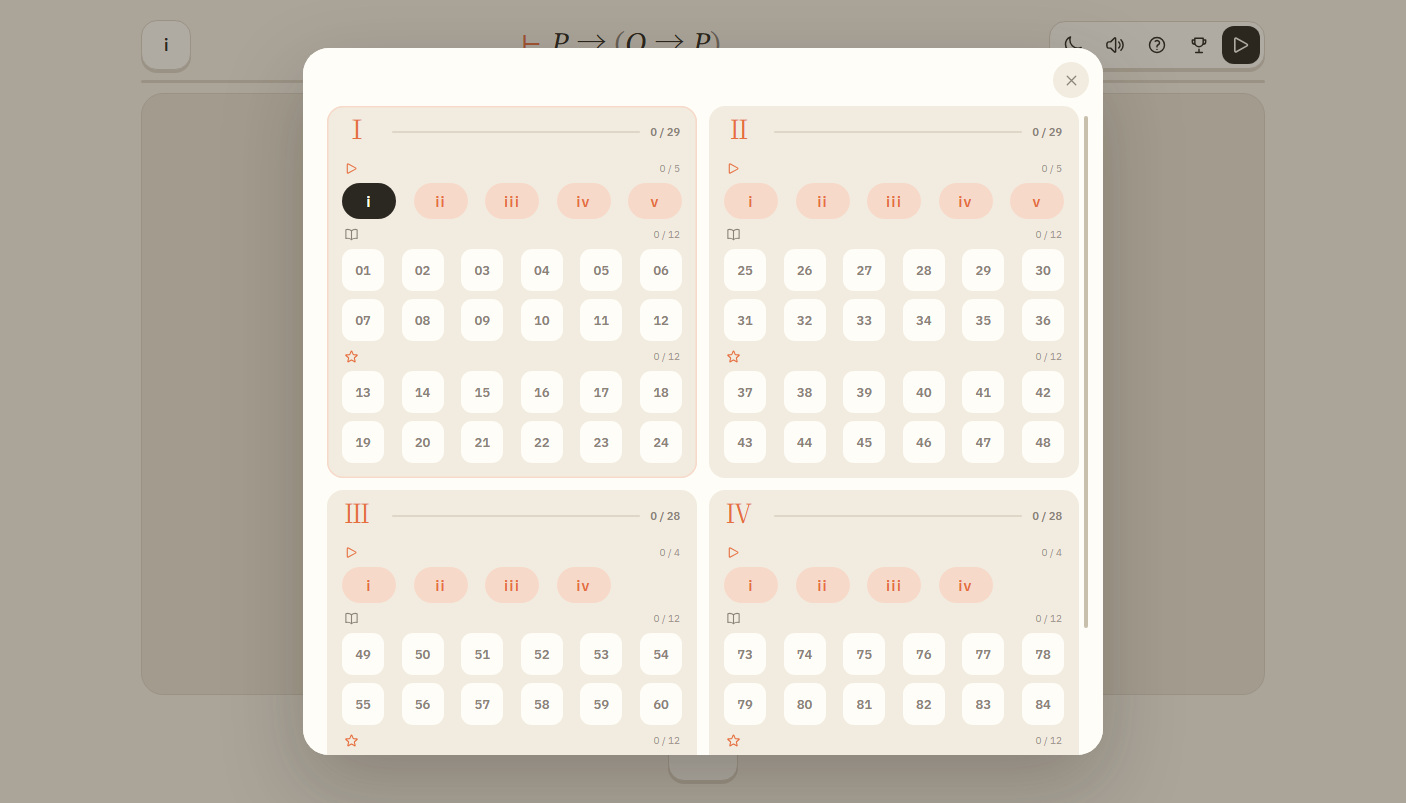
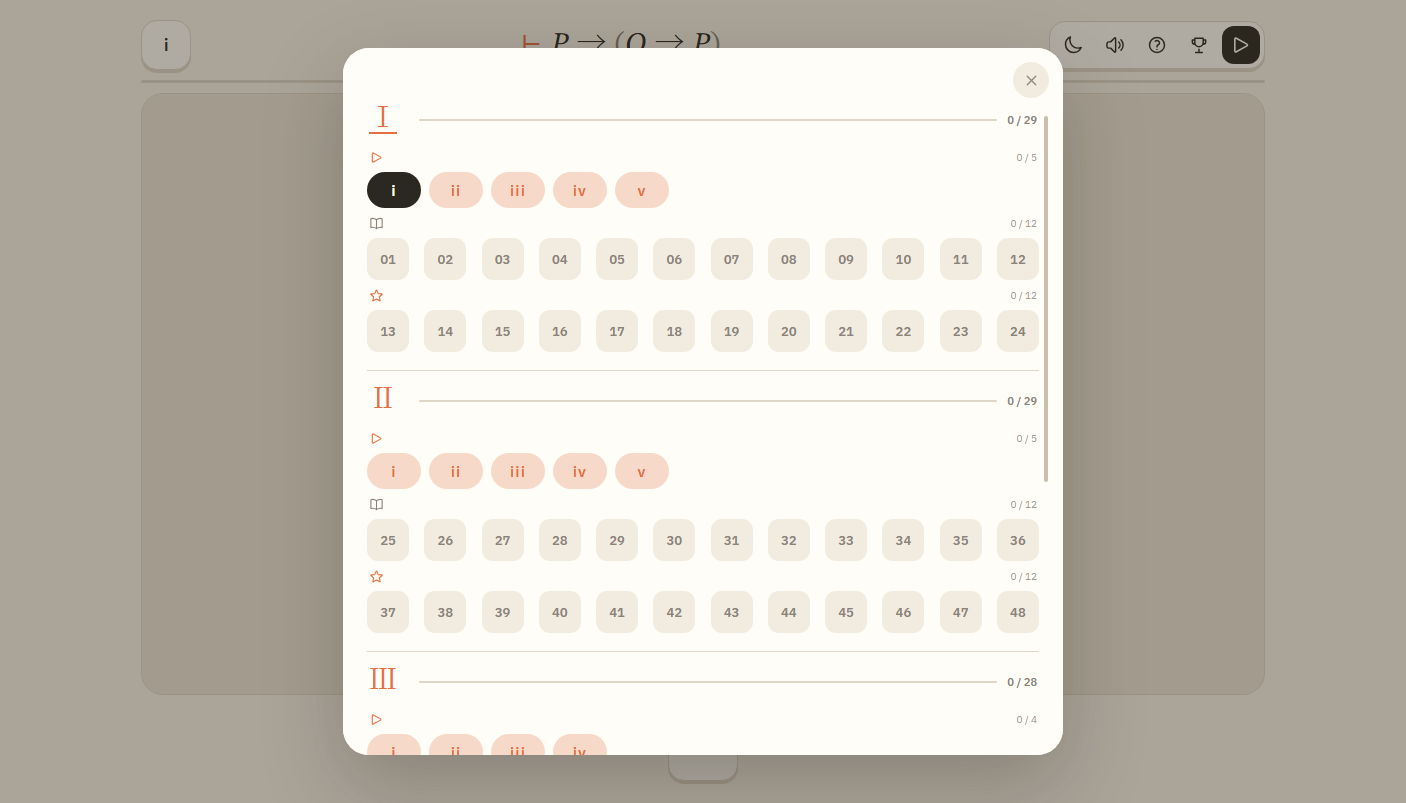
Smooth residual wire jogs; flatten level select to 4x1
Routing:
- add Route.mergeShort: interior segments under 14px are collapsed into a
  clean L corner when clear; run it (with despike) on lane routes and on the
  Board close-port Z/U paths. This removes the small notches left at ports
  and between near lanes.
- player-like circuits now render with straight runs and single corners.

Level select:
- revert to four stacked chapters on the plain sheet; remove the extra soft
  chapter background and borders, leaving only headers, a progress line and a
  separator between chapters.
- keep 12-column 普通/进阶 rows and the accent tutorial pills; refresh
  screenshots and DESIGN notes.
- 114 levels, npm test 5/5, route 11/11, game-ui 30/30, acceptance green;
  .maintenance stays.

diff --git a/src/simple.css b/src/simple.css
@@ -656,21 +656,19 @@ body.is-holding *{cursor:grabbing!important}
  * 16 选关面板 levels
  * ========================================================================= */
 
-.sheet.sheet-levels{width:min(800px,100%)}
+.sheet.sheet-levels{width:min(720px,100%)}
 
-.chapters{display:grid;grid-template-columns:repeat(2,minmax(0,1fr));gap:12px;align-items:start;padding-top:2px}
+.chapters{display:flex;flex-direction:column;gap:18px;padding-top:2px}
 
-/* 章节是 sheet 内的一块平涂软卡，和帮助/成就面板用同一套材质。 */
-.chapter{
-  background:var(--soft);border-radius:var(--radius);
-  padding:13px 15px 15px;
-}
+/* 章节直接排在 sheet 上：只有分隔线和标题，不再套第二层底色。 */
+.chapter{padding:0}
+.chapter + .chapter{border-top:1px solid var(--line);padding-top:16px}
 .chapter-head{display:flex;align-items:center;gap:10px;padding:0 2px 8px}
-.chapter-roman{font-family:var(--math);font-size:26px;line-height:1;color:var(--accent);min-width:38px}
+.chapter-roman{font-family:var(--math);font-size:28px;line-height:1;color:var(--accent);min-width:40px}
 .chapter-count{font-size:11px;font-weight:600;color:var(--muted);white-space:nowrap;font-variant-numeric:tabular-nums}
 .chapter-progress{flex:1;height:2px;border-radius:2px;background:var(--line);overflow:hidden}
 .chapter-progress i{display:block;height:100%;background:var(--accent);border-radius:2px}
-.chapter.is-current{box-shadow:inset 0 0 0 1.5px var(--accent-soft)}
+.chapter.is-current .chapter-roman{color:var(--accent);text-decoration:underline;text-underline-offset:5px}
 .chapter.is-locked{opacity:.55}
 .chapter.is-locked .chapter-roman{color:var(--muted)}
 
@@ -684,19 +682,19 @@ body.is-holding *{cursor:grabbing!important}
 .band.is-locked .band-glyph{opacity:.4}
 .band-count{font-size:10px;color:var(--muted);opacity:.8;font-variant-numeric:tabular-nums;margin-left:auto}
 
-.levels{display:grid;grid-template-columns:repeat(6,42px);gap:8px;justify-content:space-between}
+.levels{display:grid;grid-template-columns:repeat(12,42px);gap:7px;justify-content:space-between}
 .band .levels{padding-top:2px}
-.band.tutorial .levels{grid-template-columns:repeat(5,54px);gap:8px;align-items:center;justify-content:space-between}
+.band.tutorial .levels{grid-template-columns:repeat(5,54px);gap:8px;align-items:center;justify-content:start}
 
 /* 关卡格只保留四种语义：默认 / 已通关 / 当前 / 锁定。 */
 .level-cell{
   position:relative;width:42px;height:42px;border-radius:11px;
-  background:var(--card);color:var(--muted);
+  background:var(--soft);color:var(--muted);
   font-size:13px;font-weight:600;
   transition:background .12s var(--ease),color .12s var(--ease),transform .12s var(--ease),box-shadow .12s var(--ease);
 }
 /* hover/active 写在状态类之前：同一权重下状态颜色优先 */
-.level-cell:hover{transform:translateY(-1px);color:var(--ink);background:var(--card);box-shadow:var(--sticker-hover)}
+.level-cell:hover{transform:translateY(-1px);color:var(--ink);background:var(--soft-hover);box-shadow:var(--sticker-hover)}
 .level-cell:active{transform:translateY(1px)}
 .level-cell:focus-visible{outline:2px solid var(--accent);outline-offset:2px}
 .level-cell.is-solved{background:var(--accent-soft);color:var(--ink)}
@@ -996,9 +994,10 @@ body.is-holding *{cursor:grabbing!important}
   .band.tutorial .levels{grid-template-columns:repeat(5,48px);gap:7px}
   .level-cell.is-tutorial{width:48px;height:34px;font-size:14px}
 
-  .chapters{grid-template-columns:1fr;gap:14px;padding-top:2px}
+  .chapters{gap:14px;padding-top:2px}
   .band.tutorial .levels{justify-content:start}
-  .chapter{padding:13px 13px 14px;border-radius:var(--radius)}
+  .chapter{padding:0}
+  .chapter + .chapter{padding-top:14px}
   .chapter-head{gap:9px;padding-bottom:6px}
   .chapter-roman{font-size:22px;min-width:30px}
   .chapter-count{font-size:11px}

diff --git a/src/route.js b/src/route.js
@@ -174,6 +174,41 @@
     return simplify(out);
   }
 
+  /* 合并过短线段：把“竖-横-竖”这类小于最小长度的折跳改成一个干净的 L 角。
+   * 端口附近的短 stub（26px）不受影响，只清理 <14px 的碎折。 */
+  function mergeShort(pts, rects, freeCheck, minLen) {
+    if (!pts || pts.length < 3) return pts;
+    var limit = minLen || 14;
+    var out = pts.slice();
+    function clear(p, q) {
+      return segmentClear(p, q, rects) && (!freeCheck || freeCheck(p, q));
+    }
+    function lpath(p, q) {
+      if (p.x === q.x || p.y === q.y) return clear(p, q) ? [p, q] : null;
+      var c1 = { x: q.x, y: p.y };
+      if (clear(p, c1) && clear(c1, q)) return [p, c1, q];
+      var c2 = { x: p.x, y: q.y };
+      if (clear(p, c2) && clear(c2, q)) return [p, c2, q];
+      return null;
+    }
+    for (var pass = 0; pass < 8; pass++) {
+      var changed = false;
+      for (var i = 1; i < out.length - 1; i++) {
+        var a = out[i - 1], b = out[i], c = out[i + 1];
+        var ab = abs(a.x - b.x) + abs(a.y - b.y);
+        var bc = abs(c.x - b.x) + abs(c.y - b.y);
+        if (ab >= limit && bc >= limit) continue;
+        var lp = lpath(a, c);
+        if (!lp) continue;
+        out = out.slice(0, i - 1).concat(lp, out.slice(i + 2));
+        changed = true;
+        break;
+      }
+      if (!changed) break;
+    }
+    return simplify(out);
+  }
+
   /* Deterministic outer detour when the lane graph cannot reach b. */
   function fallbackRoute(a, b, rects, fromId, toId) {
     var obstacles = rects.filter(function (r) { return r.id !== fromId && r.id !== toId; });
@@ -457,10 +492,11 @@
       cur = prev[cur];
     }
     cells.reverse();
+    var extraFree = function (p, q) { return !segmentBlocked(p, q, group, occupancy); };
     var pts = simplify(cells);
-    pts = despike(pts, rects, function (p, q) {
-      return !segmentBlocked(p, q, group, occupancy);
-    });
+    pts = despike(pts, rects, extraFree);
+    pts = mergeShort(pts, rects, extraFree);
+    pts = despike(pts, rects, extraFree);
     markPath(pts, used, group, ROUTE.cell);
     return pts;
   }
@@ -474,6 +510,7 @@
     pathClear: pathClear,
     shortcut: shortcut,
     despike: despike,
+    mergeShort: mergeShort,
     markPath: markPath,
     fallbackRoute: fallbackRoute,
     route: route

diff --git a/src/board.js b/src/board.js
@@ -888,6 +888,7 @@
       var local = closeWirePoints(x.a, x.b, ra, rb);
       if (local) {
         var others = rects.filter(function (r) { return r.id !== e.from.node && r.id !== e.to.node; });
+        local = Route.mergeShort(local, rects);
         if (Route.pathClear(local, others)) {
           Route.markPath(local, used, group, ROUTE.cell);
           routes[e.id] = local;

diff --git a/docs/DESIGN.md b/docs/DESIGN.md
@@ -61,9 +61,8 @@
   拆成游离 draft，可拖到别的输入端重接；松手在空白处则丢弃，不留半截导线。
 - **帮助面板**：顶部三个图标（取模块 / 接线 / 校验，不配文字），下面只列推理规则的
   “代号 + 公式”图例（S/M/∀*/∀E*/∃I*/∃E/=I/=L）；不列变元、连接词或公理。存档/读档只保留图标按钮。
-- **选关面板**：与帮助/成就同一张 sheet，章节是软色块卡片，两栏排布（窄屏单栏）；
-  每张卡内教学一行、普通/进阶各两行六列。章节头是大罗马数字 + 细进度线 + 计数；
-  教学关是强调色小胶囊，普通/进阶是白色方块。
+- **选关面板**：四章纵向排在 sheet 上，不套第二层底色；章节之间只用标题和分隔线。
+  每章教学一行、普通/进阶各一行 12 格；教学关是强调色胶囊，普通/进阶是软色方块。
 - **教学浮窗**：进入教学关时在棋盘正中显示一张玻璃卡，左边是本关元件的代号贴纸，右边是规则式
   （如 `A1` + `P→(Q→P)`）；只使用符号/Latin，点击任意处消失。
 - **成就面板**：20 个图标格（未解锁是问号）；名称与条件只在点开后的详情里出现。
